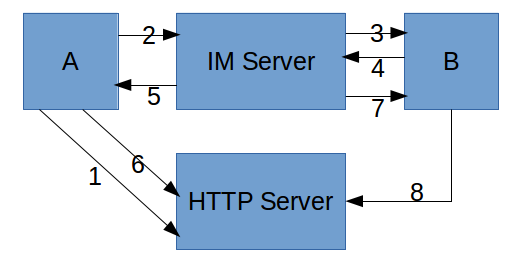
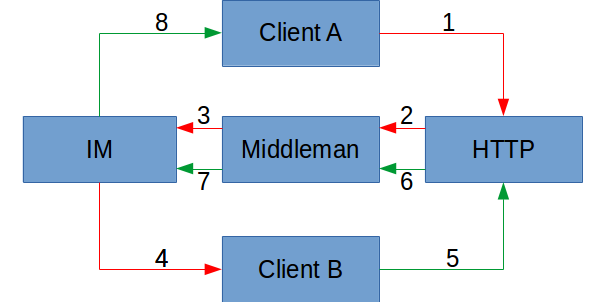
implement agent for master

diff --git a/README.md b/README.md
@@ -88,18 +88,21 @@ Got msg id=<<"a_02">>
 ### Create Contact:
 ![CreateContact](https://raw.githubusercontent.com/wudixiaotie/simple_im/master/assets/create_contact.png)  
 
-1. Search Contact:
+0. Client A Search Contact:
      1. [Http Search Contact request](#http_find_user_by_phone_request).
      2. [Http Search Contact response](#http_find_user_by_phone_response).
-2. Add contact request: A to Server & Server response:
-     1. [IM add contact request](#im_add_contact_request).
-     2. [IM add contact response](#im_add_contact_response).
-3. Add contact request: Server to B.
-4. Accept contact request: B to Server: [IM accept contact request](#im_accept_contact_request).
-5. Accept contact request: Server to A: [IM accept contact request](#im_accept_contact_request).
-6. A update contact by version: [Update contact by version](#http_find_contacts_request).
-7. Server response to B: [IM accept contact response](#im_accept_contact_response).
-8. B update contact by version: [Update contact by version](#http_find_contacts_request).
+1. Client A add Client B as contact thought http request:
+     1. [HTTP add contact request](#http_add_contact_request).
+     2. [HTTP add contact response](#http_add_contact_response).
+2. Http server send notification to Middleman: [IM add contact notification](#im_add_contact_notification).
+3. Middleman send notification to IM: [IM add contact notification](#im_add_contact_notification).
+4. IM send notification to client B: [IM add contact notification](#im_add_contact_notification).
+5. Client B accept Client A as contact thought http request:
+     1. [HTTP accept contact request](#http_accept_contact_request).
+     2. [HTTP accept contact response](#http_accept_contact_response).
+6. Http server send notification to Middleman: [IM accept contact notification](#im_accept_contact_notification).
+7. Middleman send notification to IM: [IM accept contact notification](#im_accept_contact_notification).
+8. IM send notification to client B: [IM accept contact notification](#im_accept_contact_notification).
 
 
 ## Protocol
@@ -148,9 +151,10 @@ id="a_02"
 c="hello"
 group=123
 ```
-### Notify Message:  
+### Notification Message:  
 ```toml
 [[n]]
+id = "n_1448185739"
 t="delete_group_member"
 g_id = 2
 gm_id = 2
@@ -267,7 +271,7 @@ curl --cacert priv/ssl/cowboy-ca.crt -X POST --data-urlencode "ask=hello" --cook
 ```toml
 [[response]] status = 1 reason = "error reason"
 ```
-##### <a name="im_add_contact_notify">add contact notify</a>:  
+##### <a name="im_add_contact_notification">add contact notification</a>:  
 ```toml
 [[n]]
 t="add_contact"
@@ -286,7 +290,7 @@ curl --cacert priv/ssl/cowboy-ca.crt -X PUT --cookie "token=2nL0Lqm/B77lzNWCfhfG
 ```toml
 [[response]] status = 1 reason = "error reason"
 ```
-##### <a name="im_accept_contact_notify">accept contact notify</a>:  
+##### <a name="im_accept_contact_notification">accept contact notification</a>:  
 ```toml
 [[n]]
 t="accept_contact"
@@ -304,7 +308,7 @@ curl --cacert priv/ssl/cowboy-ca.crt -X DELETE --cookie "token=I0kUMlwgXy6DfFwd+
 ```toml
 [[response]] status = 1 reason = "error reason"
 ```
-##### <a name="im_delete_contact_notify">delete contact notify</a>:  
+##### <a name="im_delete_contact_notification">delete contact notification</a>:  
 ```toml
 [[n]]
 t="delete_contact"
@@ -324,7 +328,7 @@ curl --cacert priv/ssl/cowboy-ca.crt -X POST -d "members[]=2&members[]=3" --data
 ```toml
 [[response]] status = 1 reason = "error reason"
 ```
-##### <a name="im_create_group_notify">create group notify</a>:  
+##### <a name="im_create_group_notification">create group notification</a>:  
 ```toml
 [[n]]
 t="create_group"
@@ -342,7 +346,7 @@ curl --cacert priv/ssl/cowboy-ca.crt -X DELETE --cookie "token=I0kUMlwgXy6DfFwd+
 ```toml
 [[response]] status = 1 reason = "error reason"
 ```
-##### <a name="im_delete_group_notify">delete group notify</a>:  
+##### <a name="im_delete_group_notification">delete group notification</a>:  
 ```toml
 [[n]]
 t="delete_group"
@@ -360,7 +364,7 @@ curl --cacert priv/ssl/cowboy-ca.crt -X POST --cookie "token=I0kUMlwgXy6DfFwd+1i
 ```toml
 [[response]] status = 1 reason = "error reason"
 ```
-##### <a name="im_create_group_notify">create group member notify</a>:  
+##### <a name="im_create_group_notification">create group member notification</a>:  
 ```toml
 [[n]]
 t="create_group_member"
@@ -378,7 +382,7 @@ curl --cacert priv/ssl/cowboy-ca.crt -X DELETE --cookie "token=eRooKi4EFYz6YYx0P
 ```toml
 [[response]] status = 1 reason = "error reason"
 ```
-##### <a name="im_delete_group_notify">delete group member notify</a>:  
+##### <a name="im_delete_group_notification">delete group member notification</a>:  
 ```toml
 [[n]]
 t="delete_group_member"
